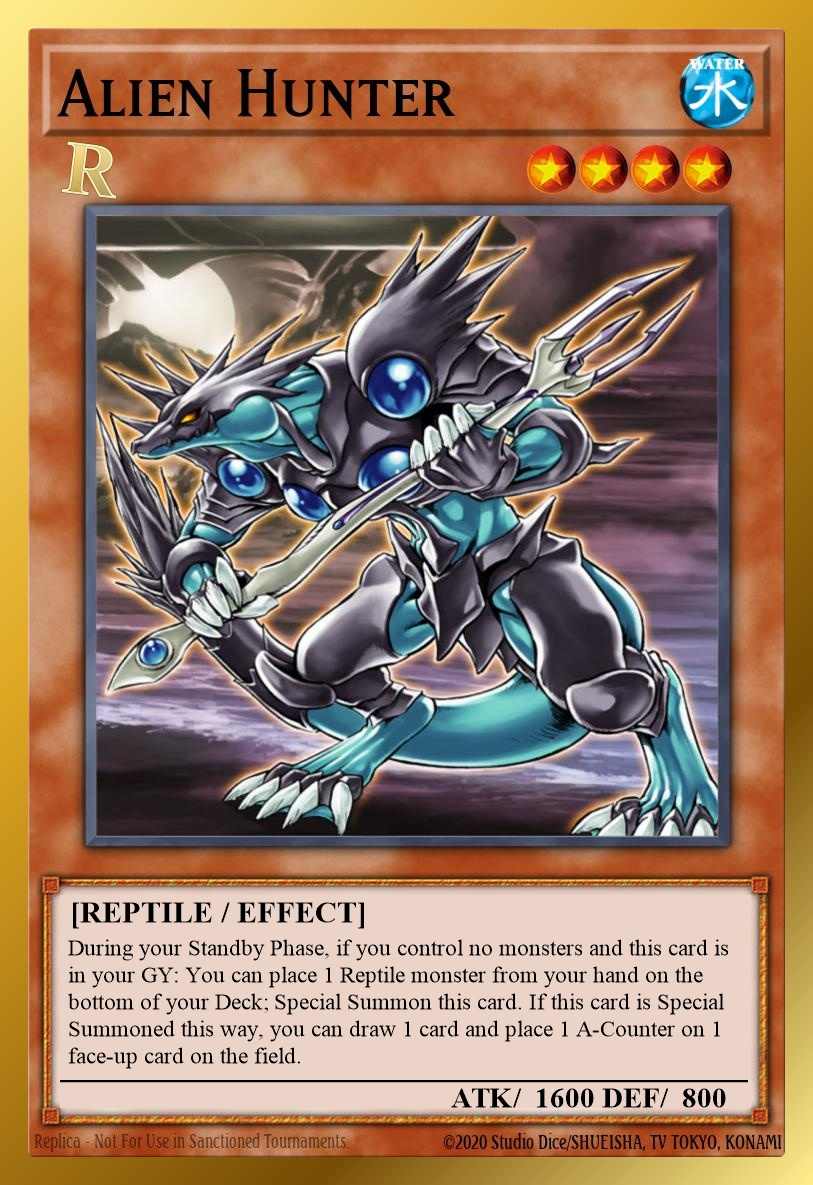
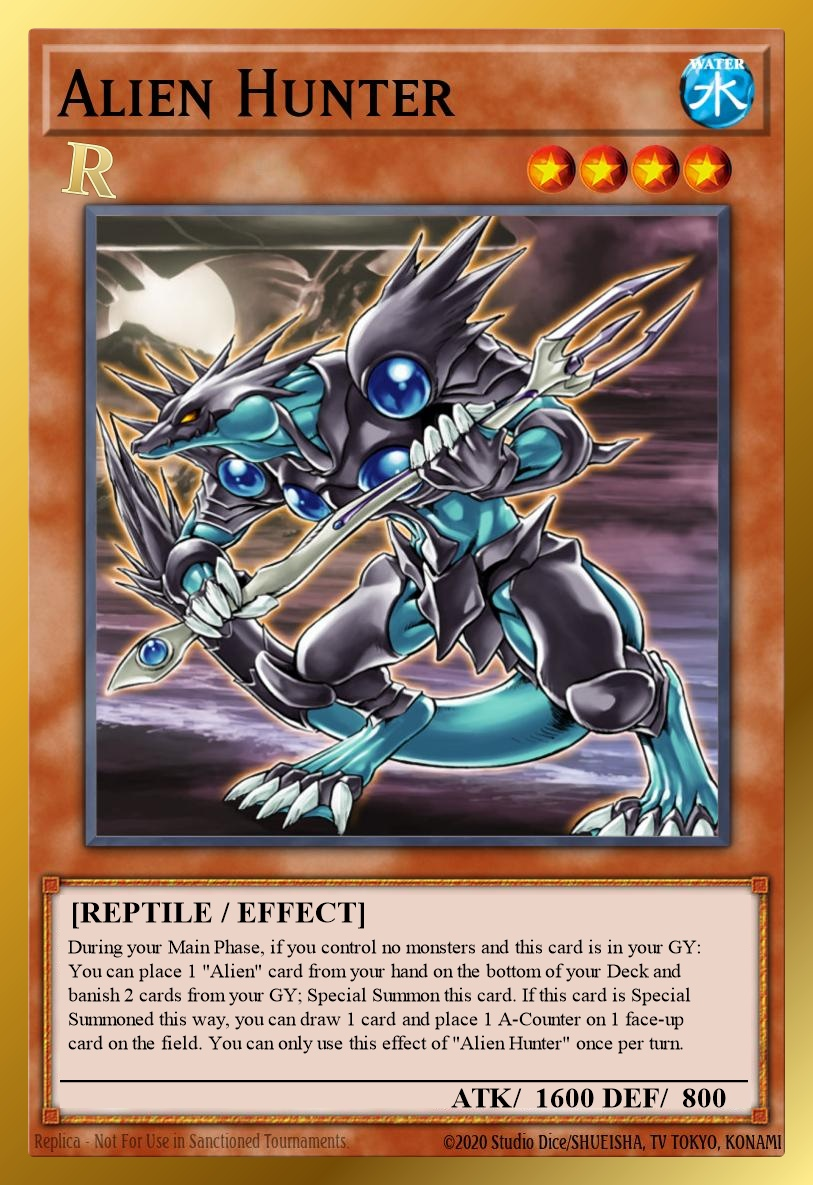
Alien Hunter rework and unlimited

Changed region(s): [[0.0615, 0.7806, 0.8918, 0.9055]]

diff --git a/Redux/scripts/build-cards-cdb.js b/Redux/scripts/build-cards-cdb.js
@@ -162,7 +162,7 @@ module.exports = function buildCardsDb({ reduxRoot }) {
   const alienHunterTextResult = db
     .prepare("UPDATE texts SET desc = ?, str1 = ? WHERE id = ?")
     .run(
-      "During your Standby Phase, if you control no monsters and this card is in your GY: You can place 1 Reptile monster from your hand on the bottom of your Deck; Special Summon this card. If this card is Special Summoned this way, you can draw 1 card and place 1 A-Counter on 1 face-up card on the field.",
+      'During your Main Phase, if you control no monsters and this card is in your GY: You can place 1 "Alien" card from your hand on the bottom of your Deck and banish 2 cards from your GY; Special Summon this card. If this card is Special Summoned this way, you can draw 1 card and place 1 A-Counter on 1 face-up card on the field. You can only use this effect of "Alien Hunter" once per turn.',
       "Special Summon this card from your GY",
       62315111,
     );

diff --git a/Redux/scripts/build-lflist.js b/Redux/scripts/build-lflist.js
@@ -117,7 +117,6 @@ const limitChanges = new Map([
   ["90846359", 1], // Rivalry of Warlords
   ["82732705", 1], // Skill Drain
   ["53567095", 2], // Icarus Attack
-  ["62315111", 2], // Alien Hunter
   ["99342953", 2], // Code A Ancient Ruins
   ["24082387", 1], // Crop Circles
 ]);

diff --git a/README.md b/README.md
@@ -78,7 +78,7 @@ Redux Limits: `0` = forbidden; `1` = limited; `2` = semi-limited; `3` = unlimite
 | `3` [Alien Code A Ancient Ruins](https://yugioh.fandom.com/wiki/Code_A_Ancient_Ruins) | 🔄 Counts as Alien; hard once per turn; summons Reptile from hand/GY |
 | `1` [Alien Crop Circles](https://yugioh.fandom.com/wiki/Crop_Circles) | 🔄 Counts as Alien; flips cards face-down; shared Alien GY effect searches monster |
 | `3` [Alien Grey](https://yugioh.fandom.com/wiki/Alien_Grey) | 🔄 Summon/flip trigger draws; shared Alien GY effect sends Spell/Trap or gives A-Counter |
-| `2` [Alien Hunter](https://yugioh.fandom.com/wiki/Alien_Hunter) | 🔄 Standby GY summon by bottom-decking Reptile from hand; can draw and give A-Counter |
+| `3` [Alien Hunter](https://yugioh.fandom.com/wiki/Alien_Hunter) | 🔄 Main Phase GY summon by bottom-decking Alien from hand and banishing 2 GY cards; hard once per turn; can draw and give A-Counter |
 | `3` [Alien Mass Hypnosis](https://yugioh.fandom.com/wiki/Mass_Hypnosis) | 🔄 Counts as Alien |
 | `3` [Alien Mother](https://yugioh.fandom.com/wiki/Alien_Mother) | 🔄 Summons itself with A-Counters; steals battle-destroyed A-Counter monsters; protects itself |
 | `3` [Alien Mothership Muusik'I](https://yugioh.fandom.com/wiki/Flying_Saucer_Muusik%27i) | 🔄 Counts as Alien; discards to summon itself; banish from GY to summon or search Alien |
@@ -155,7 +155,7 @@ Redux Limits: `0` = forbidden; `1` = limited; `2` = semi-limited; `3` = unlimite
 | --- | :---: | :---: | :---: | :---: |
 | [Alien "A" Cell Scatter Burst](https://yugioh.fandom.com/wiki/%22A%22_Cell_Scatter_Burst) | 3 | `3` | 3 | ⬆ |
 | [Alien Grey](https://yugioh.fandom.com/wiki/Alien_Grey) | 3 | `3` | 3 | 🔄 |
-| [Alien Hunter](https://yugioh.fandom.com/wiki/Alien_Hunter) | 3 | `2` | 3 | 🔄 |
+| [Alien Hunter](https://yugioh.fandom.com/wiki/Alien_Hunter) | 3 | `3` | 3 | 🔄 |
 | [Alien Mother](https://yugioh.fandom.com/wiki/Alien_Mother) | 3 | `3` | 3 | 🔄 |
 | [Alien Mothership Muusik'I](https://yugioh.fandom.com/wiki/Flying_Saucer_Muusik%27i) | 3 | `3` | 3 | 🔄 |
 | [Alien Overlord](https://yugioh.fandom.com/wiki/Alien_Overlord) | 3 | `3` | 3 | 🔄 |
